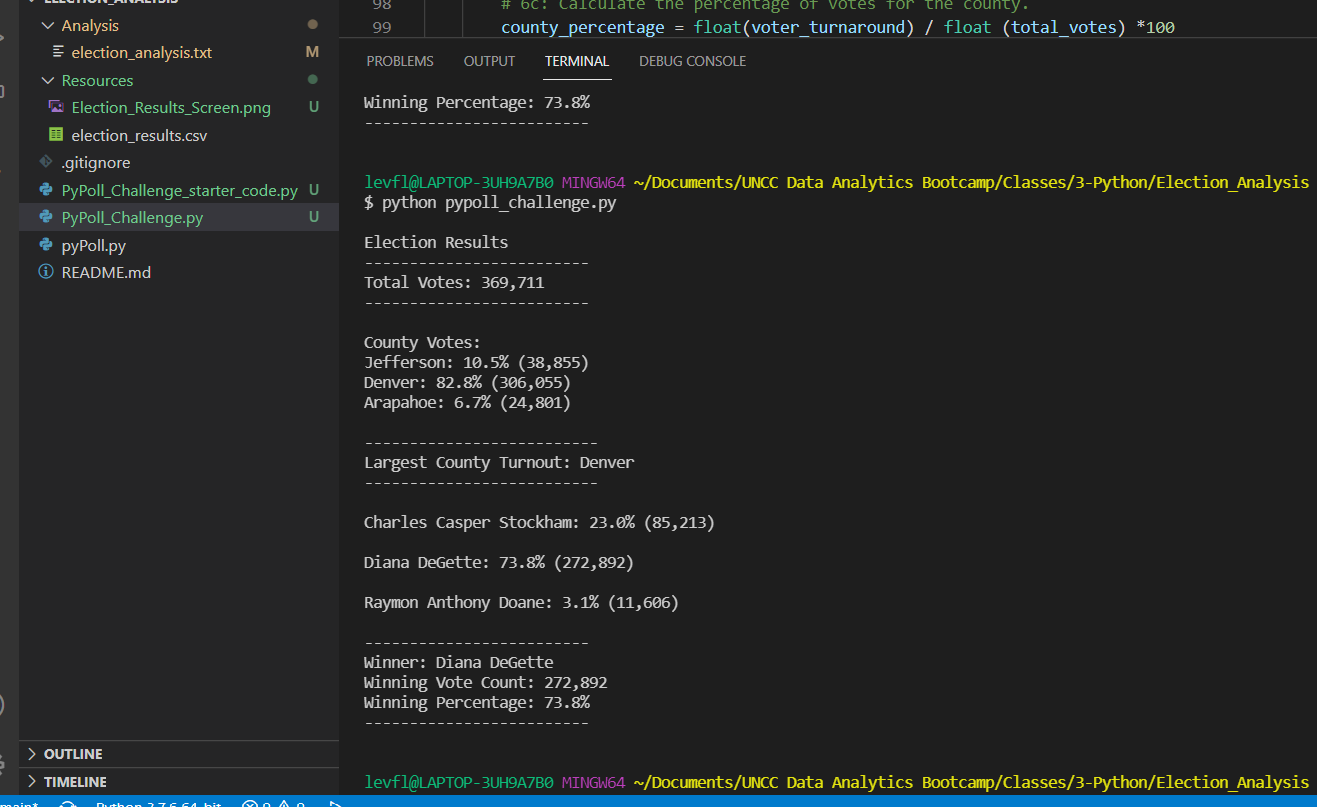
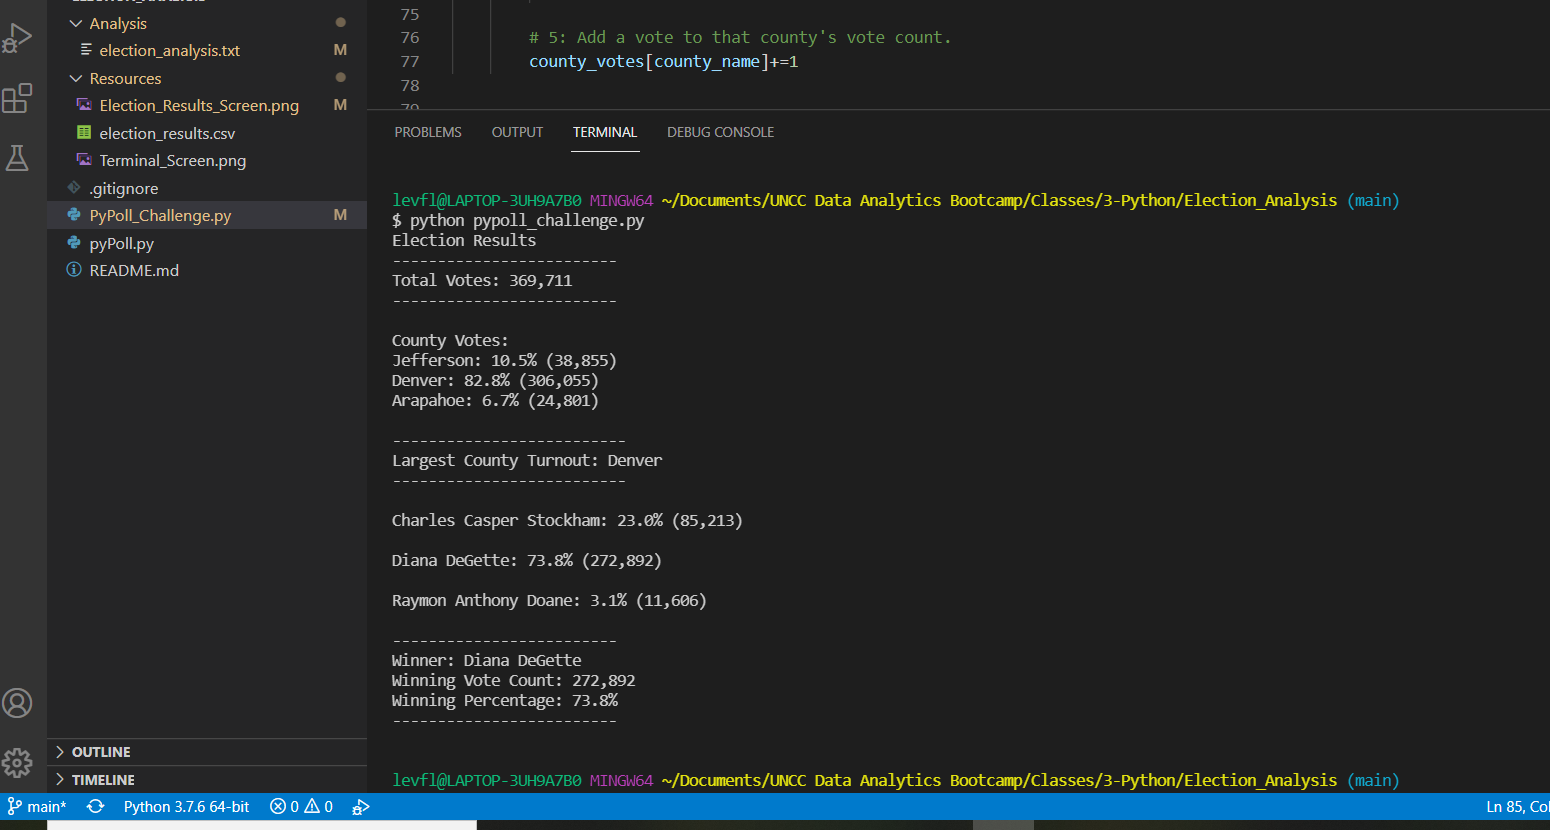
Final Challenge Submission

diff --git a/PyPoll_Challenge.py b/PyPoll_Challenge.py
@@ -82,7 +82,7 @@ with open(file_to_save, "w") as txt_file:
 
     # Print the final vote count (to terminal)
     election_results = (
-        f"\nElection Results\n"
+        f"Election Results\n"
         f"-------------------------\n"
         f"Total Votes: {total_votes:,}\n"
         f"-------------------------\n\n"
